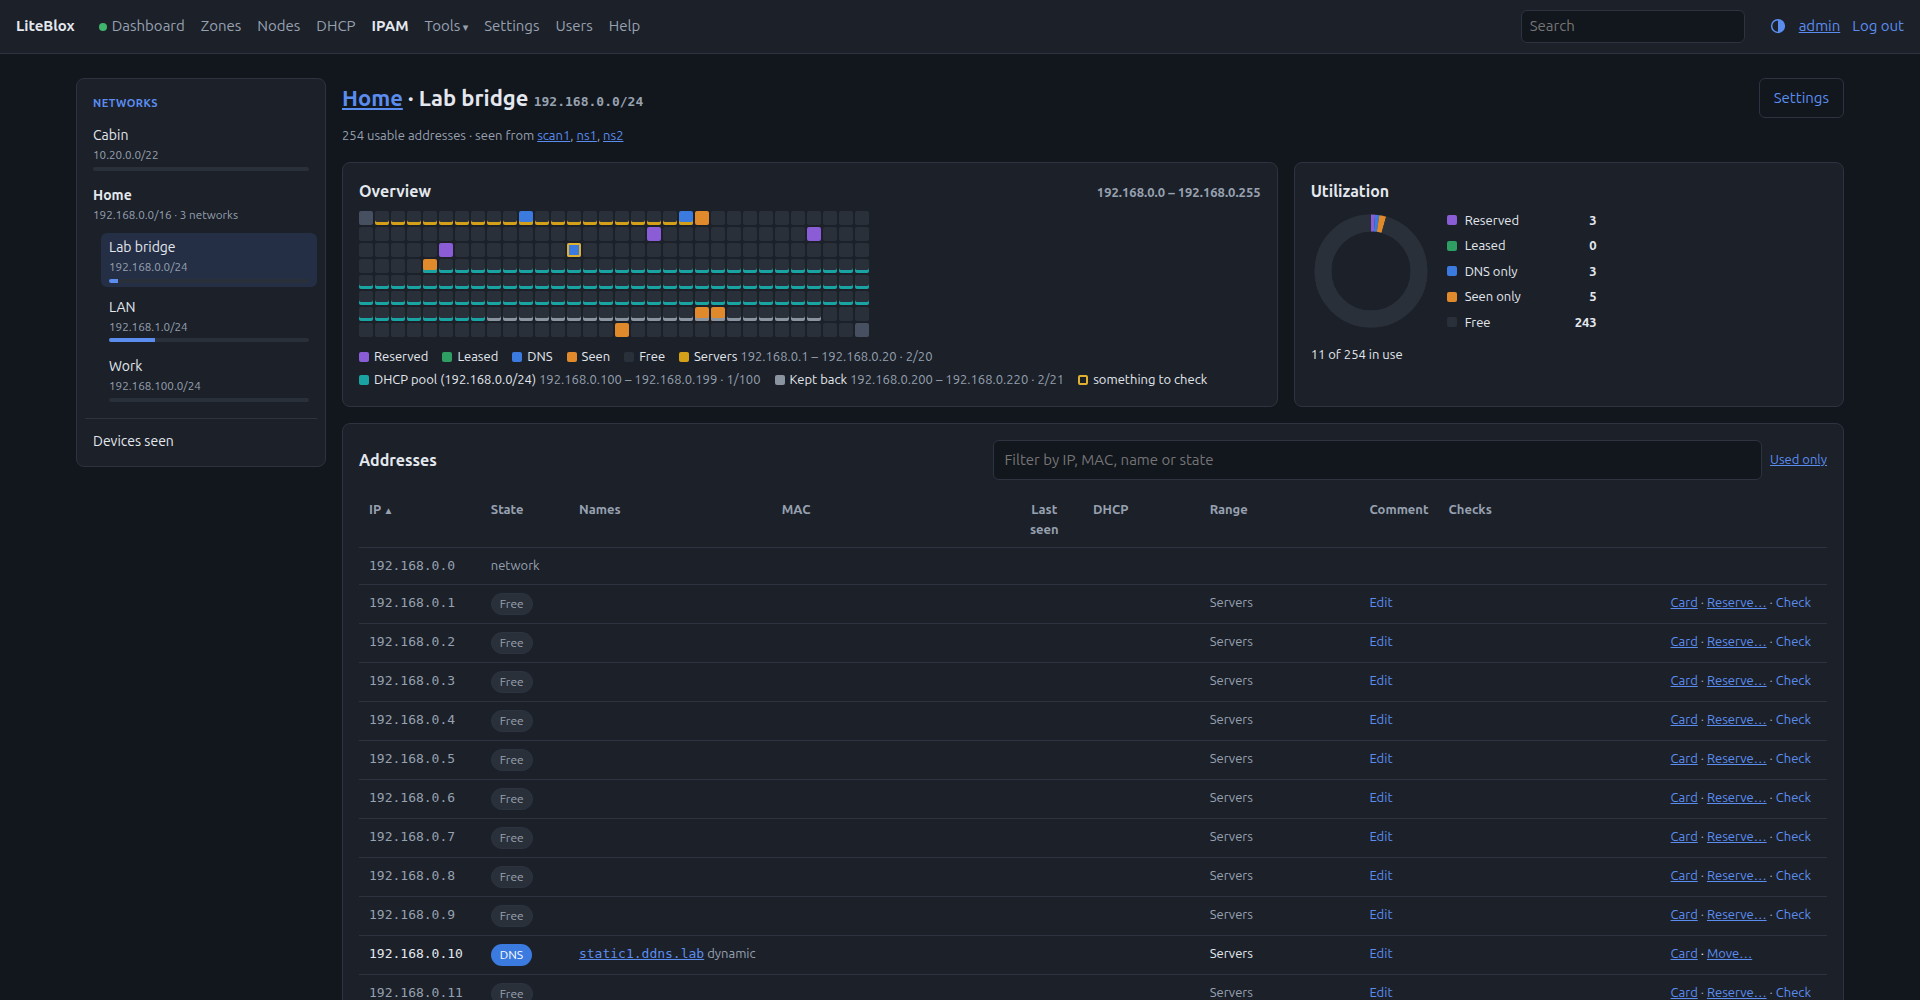
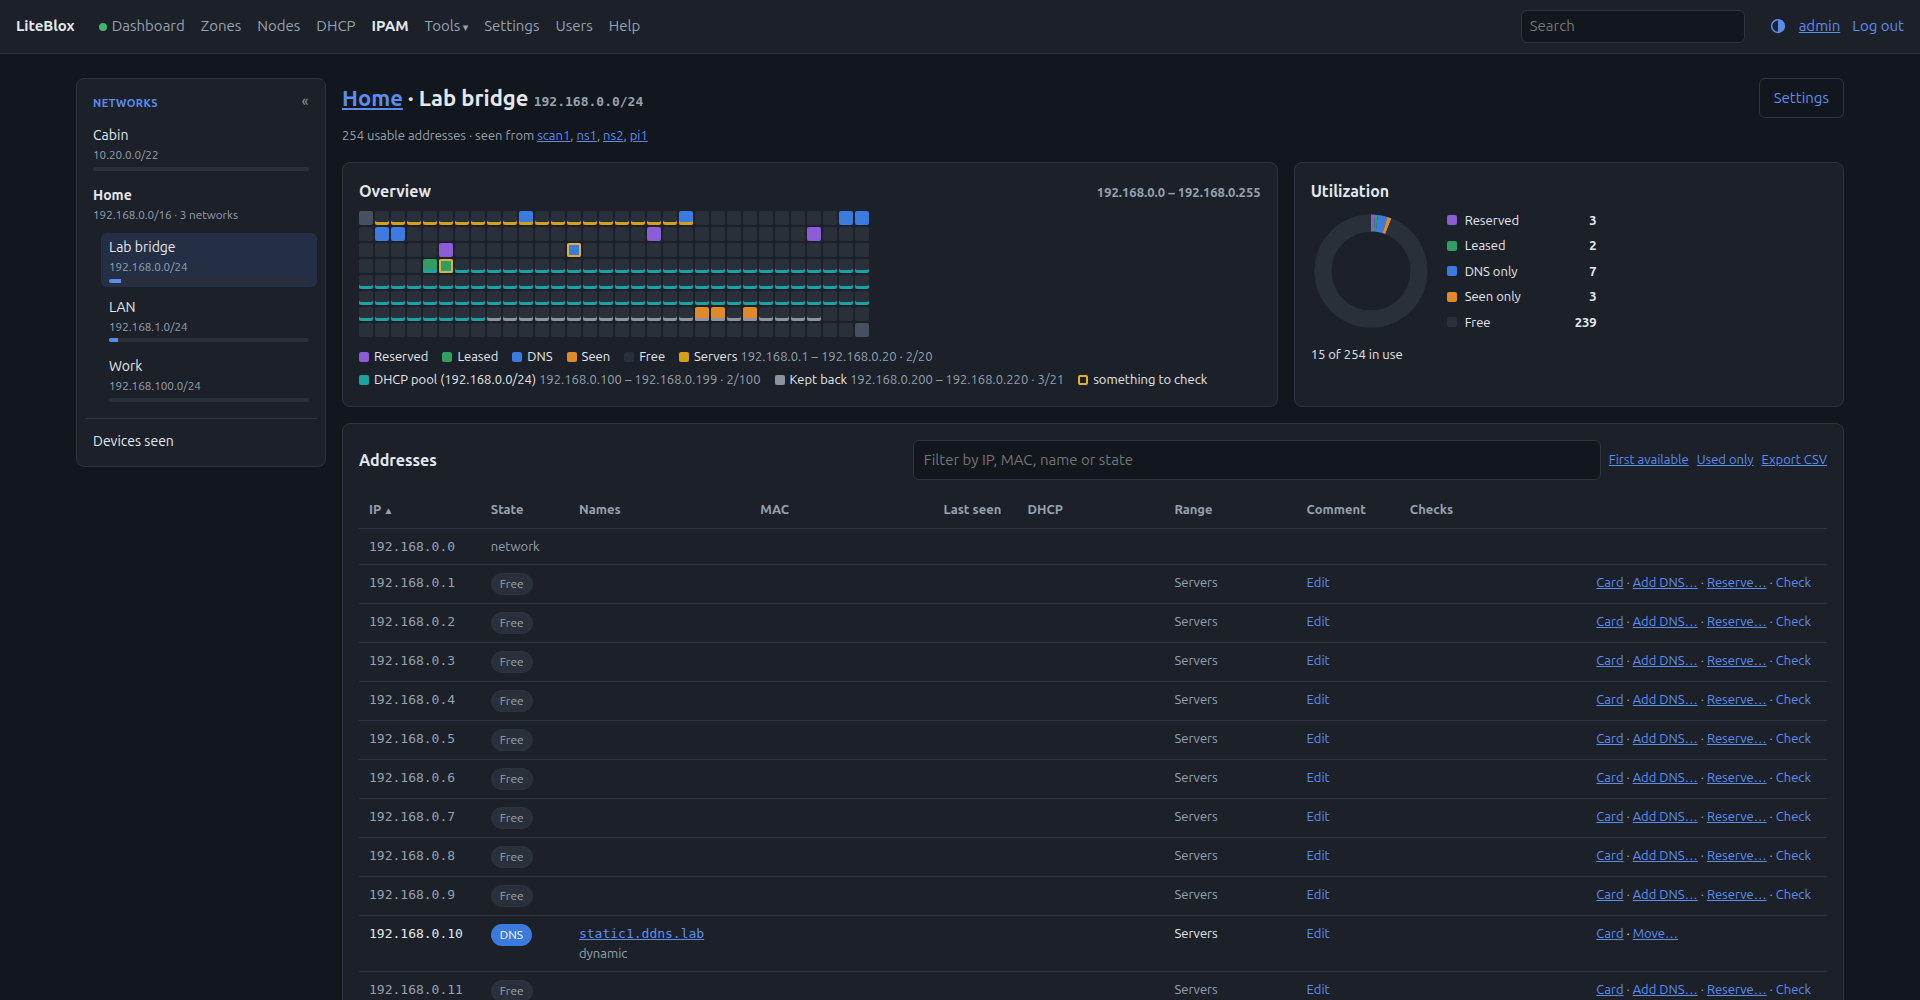
LiteBlox 4.7.2
- IPAM: First available on a network page jumps to the lowest free address with no name in DNS and highlights its row
- Nodes on 64-bit ARM: a Raspberry Pi 4 with Raspberry Pi OS Lite (64-bit) ran DNS, DHCP failover and time as a node; the docs cover its NetworkManager address and a failover pair's interface names
- Bootstrap waits up to 90 s for the agent to start (a Raspberry Pi right after installing packages took 15 s)
- The DHCP review and drift views hide TSIG key secrets in Kea's DDNS config
- Agent: a DHCP change on an interface made after Kea started (a new VLAN, say) no longer fails: Kea is made to look at the interfaces again
- After updating, run Upgrade agents on the Nodes page (over mTLS; no Repair needed). No database changes

diff --git a/liteblox/templates/ipam_network.html b/liteblox/templates/ipam_network.html
@@ -37,6 +37,7 @@
   <div class="toolbar">
     <h2 class="grow">Addresses</h2>
     {{ filter_box() }}
+    {% if first_free %}<a class="small" href="{{ base }}?ip={{ first_free }}#ip-{{ first_free }}" title="{{ first_free }}: the lowest free address with no name in DNS">First available</a>{% else %}<span class="small muted">No free address</span>{% endif %}
     <a class="small" href="{{ base }}?page={{ page }}{% if not used_only %}&used=1{% endif %}">{{ 'Show every address' if used_only else 'Used only' }}</a>
     <a class="small" href="/ipam/networks/{{ network.id }}/addresses.csv{{ '?used=1' if used_only }}" title="Download {{ 'the used addresses' if used_only else 'every address' }} of {{ network.prefix }} as CSV, all pages">Export CSV</a>
   </div>

diff --git a/liteblox/static/app.css b/liteblox/static/app.css
@@ -658,6 +658,8 @@ table.ipam-table tr.flap td { background: color-mix(in srgb, var(--warn) 12%, tr
 .notice.flap { border-left: 4px solid var(--warn); }
 table.ipam-table tr.focus td { background: color-mix(in srgb, var(--accent) 12%, transparent); }
 table.ipam-table tr:target td { background: color-mix(in srgb, var(--accent) 12%, transparent); }
+table.ipam-table tr.focus td:first-child { box-shadow: inset 4px 0 0 var(--accent); }
+table.ipam-table tr.focus { scroll-margin-top: 30vh; }     /* a jump to the row (First available) lands it mid-screen */
 .comment-cell .block { display: block; font-size: 11.5px; }
 .inline-form { display: flex; gap: 4px; }
 .inline-form input { padding: 3px 6px; font-size: 13px; min-width: 140px; }

diff --git a/agent/liteblox_agent.py b/agent/liteblox_agent.py
@@ -444,6 +444,8 @@ CONFIG_VALIDATORS = {
 # role: (top-level key, service)
 KEA_ROLES = {'kea-dhcp4.conf': ('Dhcp4', 'dhcp4'), 'kea-dhcp-ddns.conf': ('DhcpDdns', 'd2')}
 KEA_TOOLS = {'dhcp4': 'kea_dhcp4', 'd2': 'kea_dhcp_ddns'}
+# config-reload's error for a subnet on an interface Kea hasn't seen yet (made or renamed after Kea started)
+KEA_NEW_INTERFACE = 'is not present in the system'
 # the failover pair's mutual-TLS files (in kea_dir/tls): role -> the PEM block it must be
 KEA_TLS = {'tls/ha.crt': 'CERTIFICATE', 'tls/ha.key': 'PRIVATE KEY', 'tls/ca.crt': 'CERTIFICATE'}
 HA_KEYS = frozenset(('this-server-name', 'mode', 'heartbeat-delay', 'max-response-delay', 'max-ack-delay',
@@ -1945,6 +1947,34 @@ class Agent:
                 failed.append((service, e.message))
         return failed
 
+    def _kea_learn_interfaces(self):
+        """Kea learns the system's interfaces when it starts, and config-reload checks a subnet's interface against
+        that list before it looks again (which it does when it opens its sockets), so an interface made or renamed
+        after Kea started (a VLAN, say) fails the reload until Kea restarts. Instead: set the new config once with
+        the subnets' interface names left out, which opens the sockets and so re-detects the interfaces, then
+        reload the real file. [(service, error)] like _kea_reload."""
+        path = self.kea_paths()['kea-dhcp4.conf']
+        try:
+            with open(path) as f:
+                config = json.load(f)
+            dhcp4 = config['Dhcp4']
+            for subnet in dhcp4.get('subnet4') or []:
+                subnet.pop('interface', None)
+            for network in dhcp4.get('shared-networks') or []:
+                network.pop('interface', None)
+                for subnet in network.get('subnet4') or []:
+                    subnet.pop('interface', None)
+        except (OSError, ValueError, KeyError, TypeError, AttributeError) as e:
+            return [('dhcp4', f'cannot read {path} to retry: {e}')]
+        try:
+            answer = kea_command(self.cfg['kea_access']['dhcp4'], 'config-set', config, timeout=30)
+        except AgentError as e:
+            return [('dhcp4', e.message)]
+        if answer.get('result') != 0:
+            return [('dhcp4', answer.get('text') or 'config-set failed')]
+        log.info('Kea did not know an interface yet: loaded the config without subnet interfaces so it looked again')
+        return self._kea_reload(['kea-dhcp4.conf'])
+
     def commit_dhcp(self, body):
         with self.lock:
             stage = self._take_stage(body.get('stage_id'), 'dhcp')
@@ -1963,6 +1993,8 @@ class Agent:
                 raise AgentError(HTTPStatus.FORBIDDEN, f'cannot replace the Kea config: {e}; nothing changed')
             roles = [os.path.relpath(lv, self.cfg['kea_dir']) for _, lv in stage['files']]
             failed = self._kea_reload(roles)
+            if any(service == 'dhcp4' and KEA_NEW_INTERFACE in message for service, message in failed):
+                failed = [f for f in failed if f[0] != 'dhcp4'] + self._kea_learn_interfaces()
             if failed:
                 self._undo(folder, manifest)
                 self._kea_reload(roles)          # back to the previous files

diff --git a/tests/test_ipam_first_free.py b/tests/test_ipam_first_free.py
@@ -1,0 +1,60 @@
+"""First available on an IPAM network page: a link to the lowest Free address with no name in DNS, on
+whichever page it is."""
+
+import ipaddress
+
+from liteblox.ipam import model, names, view
+from test_ipam import admin, viewer  # noqa: F401 (fixtures)
+
+
+class Facts:
+    def __init__(self, *used, rdns=()):
+        self.used = sorted(int(ipaddress.IPv4Address(u)) for u in used)
+        self.rdns = {ipaddress.IPv4Address(ip): {'name': name} for ip, name in rdns}
+
+    def used_between(self, first, last):
+        return [u for u in self.used if first <= u <= last]
+
+
+def net(prefix):
+    return model.Network(0, prefix)
+
+
+def test_first_free_skips_what_is_used():
+    assert str(view.first_free(Facts(), net('10.0.0.0/24'))) == '10.0.0.1'
+    assert str(view.first_free(Facts('10.0.0.1', '10.0.0.2', '10.0.0.4'), net('10.0.0.0/24'))) == '10.0.0.3'
+    # the network address never counts as free, and a gap below the first used one is found
+    assert str(view.first_free(Facts('10.0.0.0', '10.0.0.5'), net('10.0.0.0/24'))) == '10.0.0.1'
+    assert view.first_free(Facts(*(f'10.0.0.{i}' for i in range(1, 7))), net('10.0.0.0/29')) is None
+    assert view.first_free(Facts(), net('10.0.0.7/32')) is None
+
+
+def test_an_address_with_an_rdns_name_is_skipped():
+    # Free on paper, but the resolver has a name for it: something probably uses it
+    facts = Facts('10.0.0.1', rdns=[('10.0.0.2', 'printer.example.'), ('10.0.0.3', ''), ('10.9.9.9', 'x.example.')])
+    assert str(view.first_free(facts, net('10.0.0.0/24'))) == '10.0.0.3'
+
+
+def test_first_free_on_a_later_page():
+    used = [f'10.1.{b}.{i}' for b in range(2) for i in range(256)]
+    assert str(view.first_free(Facts(*used), net('10.1.0.0/22'))) == '10.1.2.0'
+
+
+def test_the_link(viewer, conn):
+    model.add_network(conn, '10.9.9.0/29', 'Small')
+    page = viewer.get('/ipam/networks/1').text
+    assert '<a class="small" href="/ipam/networks/1?ip=10.9.9.1#ip-10.9.9.1"' in page and '>First available</a>' in page
+    names.save(conn, '10.9.9.1', 'one')
+    page = viewer.get('/ipam/networks/1?used=1').text
+    assert 'href="/ipam/networks/1?ip=10.9.9.2#ip-10.9.9.2"' in page
+    # following it shows the row, highlighted, even from Used only
+    page = viewer.get('/ipam/networks/1?ip=10.9.9.2').text
+    assert '<tr id="ip-10.9.9.2" class="free focus' in page
+    # one the resolver has a name for is passed over
+    conn.execute("INSERT INTO ipam_ptr (ip, name, looked_up_at) VALUES ('10.9.9.2', 'old.example.', 0)")
+    conn.commit()
+    assert 'href="/ipam/networks/1?ip=10.9.9.3#ip-10.9.9.3"' in viewer.get('/ipam/networks/1').text
+    for i in range(2, 7):
+        names.save(conn, f'10.9.9.{i}', f'h{i}')
+    page = viewer.get('/ipam/networks/1').text
+    assert 'First available' not in page and 'No free address' in page

diff --git a/tests/test_nodes.py b/tests/test_nodes.py
@@ -566,3 +566,55 @@ def test_setup_waits_for_another_apt_run(tmp_path, monkeypatch):
         bootstrap_mod.bootstrap(node, bootstrap_mod.Credentials('claude', password='pw'),
                                 bootstrap_mod.Options(dhcp=True), PKI(tmp_path / 'pki').ensure(),
                                 tmp_path / 'backups', '0.1.0', print, connect=LockedRemote)
+
+
+# ── the agent check at the end of bootstrap ─────────────────────────────────────
+
+class _Clock:
+    def __init__(self):
+        self.now = 0.0
+
+    def monotonic(self):
+        return self.now
+
+    def sleep(self, s):
+        self.now += s
+
+
+def _slow_agent(monkeypatch, answers_after):
+    """An agent that refuses connections until answers_after seconds have passed (a Pi after its apt run)."""
+    clock = _Clock()
+    monkeypatch.setattr(bootstrap_mod.time, 'monotonic', clock.monotonic)
+    monkeypatch.setattr(bootstrap_mod.time, 'sleep', clock.sleep)
+
+    class Client:
+        def __init__(self, *a, **k):
+            pass
+
+        def __enter__(self):
+            if clock.now < answers_after:
+                raise bootstrap_mod.AgentError(None, 'cannot reach agent: [Errno 111] Connection refused')
+            return self
+
+        def __exit__(self, *a):
+            return False
+
+        def status(self):
+            return {'bind': False, 'agent_version': '4.7.1'}
+    monkeypatch.setattr(bootstrap_mod, 'AgentClient', Client)
+    return clock
+
+
+def test_bootstrap_waits_for_a_slow_agent(monkeypatch):
+    _slow_agent(monkeypatch, answers_after=15)
+    lines = []
+    node = {'host': '192.0.2.9', 'agent_port': 8530}
+    bootstrap_mod._verify(node, None, lines.append)
+    assert any('waiting up to 90 s' in line for line in lines)
+
+
+def test_bootstrap_gives_up_on_an_agent_that_never_answers(monkeypatch):
+    clock = _slow_agent(monkeypatch, answers_after=10_000)
+    with pytest.raises(bootstrap_mod.BootstrapError, match='within 90 s'):
+        bootstrap_mod._verify({'host': '192.0.2.9', 'agent_port': 8530}, None, lambda line: None)
+    assert 90 <= clock.now < 92

diff --git a/tests/fakekea.py b/tests/fakekea.py
@@ -69,6 +69,7 @@ class FakeKeaSocket:
     def __init__(self, path, service='dhcp4'):
         self.path, self.service = path, service
         self.commands, self.fail_reload = [], False
+        self.unknown_interface = None     # an interface made after Kea started: config-reload fails until config-set
         self.ha_state = None
         self.sock = socket.socket(socket.AF_UNIX, socket.SOCK_STREAM)
         self.sock.bind(path)
@@ -95,7 +96,17 @@ class FakeKeaSocket:
                     'local': {'role': 'primary', 'server-name': 'ns1', 'state': self.ha_state},
                     'remote': {'role': 'standby', 'server-name': 'ns2', 'last-state': 'hot-standby', 'in-touch': True}}}]
             return {'result': 0, 'arguments': args}
+        if command == 'config-set':
+            subnets = request['arguments']['Dhcp4'].get('subnet4') or []
+            if self.unknown_interface and any(x.get('interface') == self.unknown_interface for x in subnets):
+                return {'result': 1, 'text': 'still not present'}
+            self.unknown_interface = None                 # opening the sockets re-detected the interfaces
+            return {'result': 0, 'text': 'Configuration successful.'}
         if command == 'config-reload':
+            if self.unknown_interface:
+                return {'result': 1, 'text': 'configuration error using file: subnet configuration failed: Specified '
+                        f'network interface name {self.unknown_interface} for subnet 192.0.2.0/24 is not present in the '
+                        'system (kea-dhcp4.conf:90:22)'}
             if self.fail_reload:
                 return {'result': 1, 'text': 'fake reload failure'}
             return {'result': 0, 'text': 'Configuration successful.', 'arguments': {'hash': 'ABC'}}

diff --git a/liteblox/nodes/bootstrap.py b/liteblox/nodes/bootstrap.py
@@ -497,20 +497,28 @@ def _install(r, node, zones, pki, version, log, kea=False, ntp=False, bind=True)
     node['cert_not_after'] = pki_mod.not_after(cert_pem).isoformat()
 
 
-def _verify(node, pki, log, attempts=10):
+VERIFY_WAIT = 90         # seconds: a Pi right after its apt run took 15 s to start the agent
+
+
+def _verify(node, pki, log, wait=VERIFY_WAIT):
     log(f"Checking the agent over mutual TLS at {node['host']}:{node['agent_port']}")
-    last = None
-    for _ in range(attempts):
+    last, said = None, False
+    deadline = time.monotonic() + wait
+    while True:
         try:
             with AgentClient(node['host'], pki, port=node['agent_port'], timeout=5) as c:
                 status = c.status()
             break
         except AgentError as e:
             last = e
-            time.sleep(1)
-    else:
-        raise BootstrapError(f'agent did not answer over mTLS: {last} '
-                             f'(is TCP {node["agent_port"]} open from LiteBlox?)')
+        if time.monotonic() >= deadline:
+            raise BootstrapError(f'agent did not answer over mTLS within {wait} s: {last} '
+                                 f'(is TCP {node["agent_port"]} open from LiteBlox?)')
+        if not said and time.monotonic() >= deadline - wait + 10:
+            # a slow node (a Raspberry Pi just after installing packages) can take a while to start Python
+            log(f'  not answering yet ({last}); waiting up to {wait} s for it to start')
+            said = True
+        time.sleep(1)
     if status.get('bind', True):
         log(f"  agent {status['agent_version']}, {status['named_version']}")
         log(f"  rndc: {'ok' if status['rndc_ok'] else 'FAILED'}; named-checkconf: "

diff --git a/tests/test_agent_kea.py b/tests/test_agent_kea.py
@@ -149,6 +149,25 @@ def test_a_reload_failure_puts_the_old_files_back(kea_client, kea_root, layout):
     assert restored.stat().st_gid == gid                    # Kea reads it through its group
 
 
+
+def test_a_reload_that_misses_a_new_interface_is_retried(kea_client, kea_root, layout):
+    # Kea started before the interface existed (a VLAN made later): config-reload refuses a subnet on it until Kea
+    # looks again, which config-set without the subnets' interface names makes it do
+    client, cfg = kea_client
+    _, sockets = kea_root
+    data = json.loads(render(KeaConfig(), layout)['kea-dhcp4.conf'])
+    data['Dhcp4']['interfaces-config']['interfaces'] = ['ens19']
+    data['Dhcp4']['subnet4'] = [{'id': 1, 'subnet': '192.0.2.0/24', 'interface': 'ens19'}]
+    text = json.dumps(data, indent=2)
+    sockets['dhcp4'].unknown_interface = 'ens19'
+    client.commit_dhcp(client.stage_dhcp({'kea-dhcp4.conf': text})['stage_id'])
+    commands = [c['command'] for c in sockets['dhcp4'].commands]
+    assert commands == ['config-reload', 'config-set', 'config-reload']
+    sent = sockets['dhcp4'].commands[1]['arguments']['Dhcp4']
+    assert 'interface' not in sent['subnet4'][0] and sent['interfaces-config']['interfaces'] == ['ens19']
+    assert (Path(cfg['kea_dir']) / 'kea-dhcp4.conf').read_text() == text          # the real file stays
+
+
 def test_kea_rejects_at_stage(kea_client, layout):
     client, cfg = kea_client
     data = json.loads(render(KeaConfig(), layout)['kea-dhcp4.conf'])

diff --git a/tests/test_ddns.py b/tests/test_ddns.py
@@ -259,6 +259,22 @@ def test_rotating_the_key_updates_kea(conn, settings, dyn):  # noqa: F811
         'bmV3c2VjcmV0bmV3c2VjcmV0'
 
 
+
+def test_the_review_never_shows_a_tsig_secret(conn, settings, dyn, monkeypatch):  # noqa: F811
+    # a review that adds DDNS (or rewrites it) shows kea-dhcp-ddns.conf: the key's secret stays hidden
+    registering(conn)
+    node = nodes.get_node(conn, 1)
+    files = dhcp_apply.files_for(conn, node)
+    secret = json.loads(files['kea-dhcp-ddns.conf'])['DhcpDdns']['tsig-keys'][0]['secret']
+    calls = iter([{}, files])                       # before: nothing; after: the config with its key
+    monkeypatch.setattr(dhcp_apply, 'files_for', lambda *a, **k: next(calls))
+    monkeypatch.setattr(dhcp_apply, '_guard', lambda *a: None)
+    monkeypatch.setattr(dhcp_apply, 'live_interfaces', lambda *a: [])
+    diff = dhcp_apply.preview(conn, settings, node)['diff']
+    assert '"tsig-keys"' in diff and '"secret": "????????"' in diff and secret not in diff
+    assert nodes.mask_secrets('key "dhcp" { secret "c2VjcmV0"; };') == 'key "dhcp" { secret "????????"; };'
+
+
 # ── clocks ─────────────────────────────────────────────────────────────────────
 
 def test_clock_fields_and_states():

diff --git a/liteblox/ipam/routes.py b/liteblox/ipam/routes.py
@@ -144,7 +144,7 @@ def network_page(request: Request, network_id: int, user: User = Depends(current
         'page': page, 'pages': view.pages(network), 'bounds': view.page_bounds(network, page),
         'blocks': view.blocks(facts, network), 'cells': view.cells(page_rows, ranges),
         'rows': [r for r in page_rows if r['state'] != 'free'] if used_only else page_rows, 'used_only': used_only,
-        'highlight': highlight, 'probe_nodes': _nodes_on(conn, network), 'kinds': model.KINDS,
+        'highlight': highlight, 'first_free': view.first_free(facts, network), 'probe_nodes': _nodes_on(conn, network), 'kinds': model.KINDS,
         'record_link': search.record_link, 'now': int(time.time()), 'resolver': ptr.config(conn)[0],
         'add_dns': user.is_admin and _dns_on(request) and bool(_forward_zones(conn)),
         'flapping': [f for f in seen.flapping(conn) if ipaddress.IPv4Address(f['ip']) in network.net],

diff --git a/liteblox/dhcp/apply.py b/liteblox/dhcp/apply.py
@@ -88,9 +88,9 @@ def preview(conn, settings, node, **overrides):
     old = files_for(conn, nodes.get_node(conn, node['id']))
     new = files_for(conn, node, **overrides)
 
-    def shown(files, role):       # the review never shows a private key
+    def shown(files, role):       # the review never shows a private key or a TSIG secret
         text = files.get(role, '')
-        return f'(a private key, {len(text)} bytes)\n' if role == 'tls/ha.key' and text else text
+        return f'(a private key, {len(text)} bytes)\n' if role == 'tls/ha.key' and text else nodes.mask_secrets(text)
     diff = ''.join(''.join(difflib.unified_diff(shown(old, r).splitlines(True), shown(new, r).splitlines(True),
                                                 f'{node["name"]} {r} now', f'{node["name"]} {r} after'))
                    for r in dict.fromkeys(list(old) + list(new)))

diff --git a/liteblox/ipam/view.py b/liteblox/ipam/view.py
@@ -130,6 +130,18 @@ def counts(facts, network):
     return out
 
 
+def first_free(facts, network):
+    """The lowest host address of the network that is Free with no name in DNS: nothing uses it on paper, and the
+    resolver's PTR lookup (rDNS) found no name for it either. None if there isn't one."""
+    lo, hi = int(network.hosts_range()[0]), int(network.hosts_range()[1])
+    taken = set(facts.used_between(lo, hi))
+    taken.update(int(ip) for ip, r in facts.rdns.items() if r.get('name') and lo <= int(ip) <= hi)
+    n = lo
+    while n in taken:
+        n += 1
+    return ipaddress.IPv4Address(n) if n <= hi else None
+
+
 def range_counts(facts, ranges):
     """[(range, used)] for the network's ranges."""
     return [(r, len(facts.used_between(int(r.first), int(r.last)))) for r in ranges]
